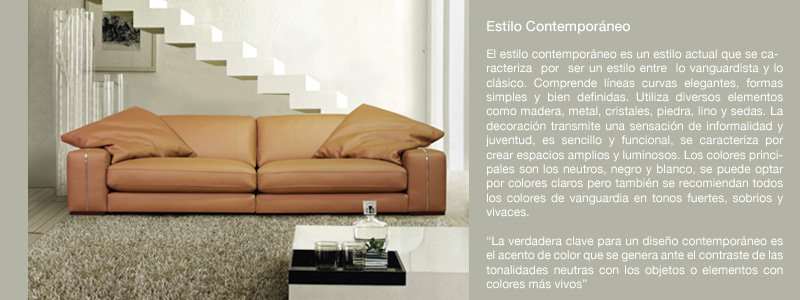
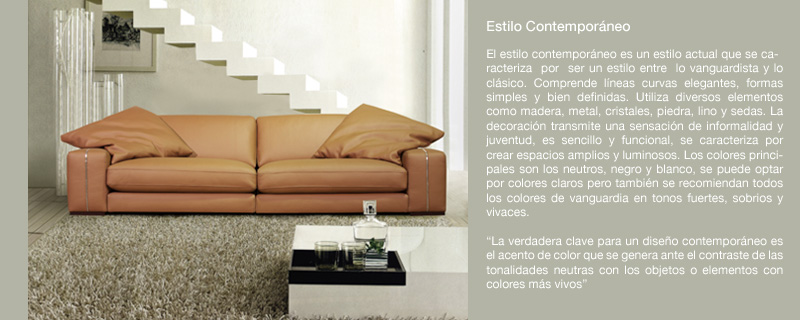
cambio imagenes
cambio de imagenes de estilos con mas espacio inferior

diff --git a/js/jquery.lightbox-0.5.2.js b/js/jquery.lightbox-0.5.2.js
@@ -108,7 +108,7 @@
 						</div>
 					</div>
 				</div>
-				<div id="lightbox-container-image-data-box" display: block; style="width:800px; position:relative; bottom:20px;">
+				<div id="lightbox-container-image-data-box" display: block; style="width:800px; position:relative; bottom:30px;">
 					<div id="lightbox-container-image-data">
 						<div id="lightbox-image-details">
 							<span id="lightbox-image-details-caption"></span>
@@ -126,7 +126,7 @@
 		 */
 		function _set_interface() {
 			// Apply the HTML markup into body tag
-			$('body').append('<div id="jquery-overlay"></div><div id="jquery-lightbox"><div id="lightbox-container-image-box"><div id="lightbox-container-image"><img id="lightbox-image"><div style="" id="lightbox-nav"><a href="#" id="lightbox-nav-btnPrev"></a><a href="#" id="lightbox-nav-btnNext" style="height:280px !important; "></a></div><div id="lightbox-loading"><a href="#" id="lightbox-loading-link"><img src="' + settings.imageLoading + '"></a></div></div></div><div id="lightbox-container-image-data-box" style="width:800px; position:relative; bottom:20px;"><div id="lightbox-container-image-data"><div id="lightbox-image-details"><span id="lightbox-image-details-caption"></span><span id="lightbox-image-details-currentNumber"></span></div><div id="lightbox-secNav"><a href="#" id="lightbox-secNav-btnClose"><img src="' + settings.imageBtnClose + '"></a></div></div></div></div>');	
+			$('body').append('<div id="jquery-overlay"></div><div id="jquery-lightbox"><div id="lightbox-container-image-box"><div id="lightbox-container-image"><img id="lightbox-image"><div style="" id="lightbox-nav"><a href="#" id="lightbox-nav-btnPrev"></a><a href="#" id="lightbox-nav-btnNext" style="height:280px !important; "></a></div><div id="lightbox-loading"><a href="#" id="lightbox-loading-link"><img src="' + settings.imageLoading + '"></a></div></div></div><div id="lightbox-container-image-data-box" style="width:800px; position:relative; bottom:30px;"><div id="lightbox-container-image-data"><div id="lightbox-image-details"><span id="lightbox-image-details-caption"></span><span id="lightbox-image-details-currentNumber"></span></div><div id="lightbox-secNav"><a href="#" id="lightbox-secNav-btnClose"><img src="' + settings.imageBtnClose + '"></a></div></div></div></div>');	
 			// Get page sizes
 			var arrPageSizes = ___getPageSize();
 			// Style overlay and show it

diff --git a/funciones.php b/funciones.php
@@ -858,7 +858,7 @@ function estilos_tendencias(){
 								<li style="width:125px;"><a href="images/estilos/contemporaneo.jpg" class="estilos">Contemporáneo</a></li> <span>|</span>
 								<li style="width:95px;"><a href="images/estilos/minimalista.jpg" class="estilos">Minimalista</a></li><span>|</span>
 								<li style="width:55px;"><a href="images/estilos/hitek.jpg" class="estilos">Hi-tek</a></li><span>|</span>
-								<li style="width:125px;"><a href="images/estilos/country.jpg" class="">Conutry Deccor</a></li><span>|</span>
+								<li style="width:125px;"><a href="images/estilos/american.jpg" class="">American Style</a></li><span>|</span>
 								<li style="width:65px;"><a href="images/estilos/clasico.jpg" class="estilos">Clásico</a></li><span>|</span>
 								<li style="width:55px;"><a href="images/estilos/etnico.jpg" class="estilos">Étnico</a></li><span>|</span>
 								<li style="width:65px;"><a href="images/estilos/vintage.jpg" class="">Vintage</a></li>
